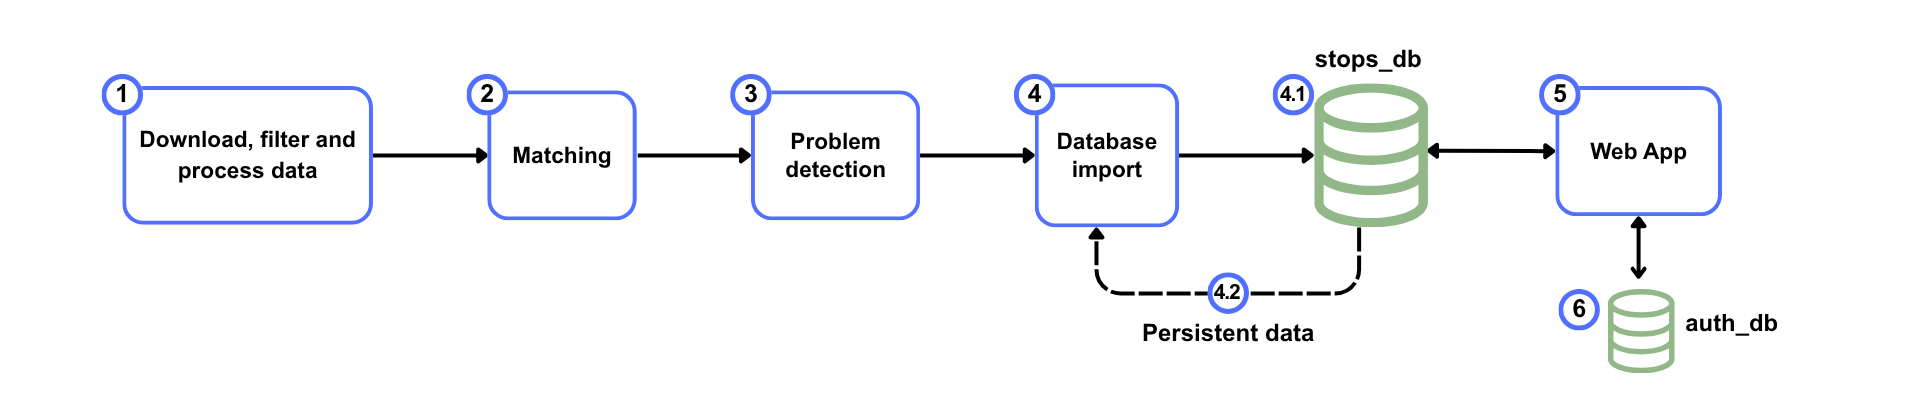
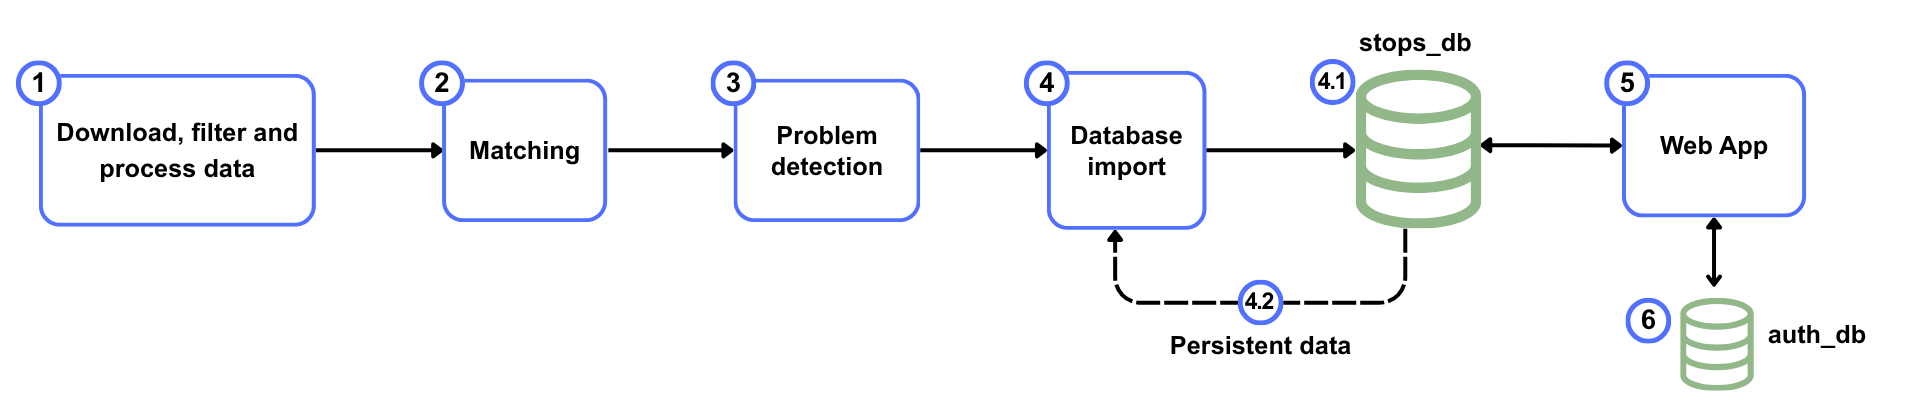
doc

diff --git a/backend/blueprints/docs.py b/backend/blueprints/docs.py
@@ -45,9 +45,19 @@ def _read_markdown(filename: str) -> str:
 def _convert_markdown_to_html(markdown_text: str) -> str:
     # Rewrite repo-relative image/asset paths to the docs assets route
     # Example: !(...](documentation/images/foo.png) -> !(...](/docs/assets/images/foo.png)
-    if '](documentation/' in markdown_text:
+    if (
+        '](documentation/' in markdown_text
+        or '](images/' in markdown_text
+        or 'src="documentation/' in markdown_text
+        or 'src="images/' in markdown_text
+    ):
         prefix = url_for("docs.docs_asset", filename="")  # ends with '/docs/assets/'
+        # Markdown image/link paths
         markdown_text = markdown_text.replace('](documentation/', f']({prefix}')
+        markdown_text = markdown_text.replace('](images/', f']({prefix}images/')
+        # Raw HTML img tags inside markdown
+        markdown_text = markdown_text.replace('src="documentation/', f'src="{prefix}')
+        markdown_text = markdown_text.replace('src="images/', f'src="{prefix}images/')
 
     if mistune is None:
         return '<p>Markdown renderer not available. Please install dependencies.</p>'
